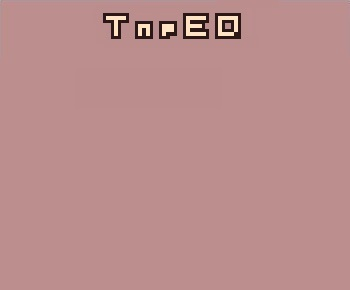
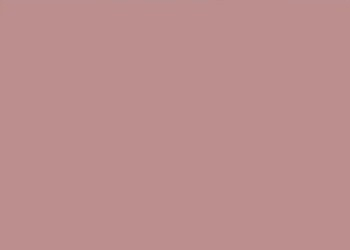
tnpLookAndFeel rotary slider now uses colour IDs

Changed region(s): [[0.2857, 0.028, 0.6857, 0.14]]

diff --git a/TnpEQ/Source/PluginEditor.cpp b/TnpEQ/Source/PluginEditor.cpp
@@ -29,7 +29,7 @@ TnpEqAudioProcessorEditor::TnpEqAudioProcessorEditor (TnpEqAudioProcessor& p)
 	attHiCutoff (std::make_unique<AudioProcessorValueTreeState::SliderAttachment>
 		(treeState, "hiCutoff", hiCutoff))
 {
-    setSize (350, 250 + 40 /*title section size*/);
+    setSize (350, 250);
 
 	backgroundImage = ImageCache::getFromMemory(BinaryData::background_jpg, BinaryData::background_jpgSize);
 
@@ -95,12 +95,10 @@ void TnpEqAudioProcessorEditor::paint (Graphics& g)
 	getLookAndFeel().setColour(Label::textColourId, Colours::black);
 	getLookAndFeel().setColour(Slider::textBoxBackgroundColourId, Colours::rosybrown);	// doesnt work?
 
-	tnpLookAndFeel.setColour(Slider::textBoxBackgroundColourId, Colours::rosybrown);
-
-	/*
-	tnpLookAndFeel.setColour(Slider::textBoxOutlineColourId, Colours::black);
-	tnpLookAndFeel.setColour(Slider::textBoxTextColourId, Colours::black);
-	*/
+	//tnpLookAndFeel.setColour(Slider::textBoxBackgroundColourId, Colours::rosybrown);
+	tnpLookAndFeel.setColour(Slider::backgroundColourId, Colours::beige);
+	tnpLookAndFeel.setColour(Slider::thumbColourId, Colours::black);
+	tnpLookAndFeel.setColour(Slider::rotarySliderOutlineColourId, Colours::black);
 
 	loBand.setColour(Slider::textBoxTextColourId, Colours::black);
 	midBand.setColour(Slider::textBoxTextColourId, Colours::black);
@@ -120,7 +118,6 @@ void TnpEqAudioProcessorEditor::paint (Graphics& g)
 void TnpEqAudioProcessorEditor::resized()
 {
 	Rectangle<int> area(getLocalBounds());
-	Rectangle<int> titleSection(area.removeFromTop(40));
 	Rectangle<int> top(area.removeFromTop(area.getHeight() / 2));
 
 	Rectangle<int> loBandArea(top.removeFromLeft(top.getWidth() / 3).reduced(5));

diff --git a/TnpEQ/Source/TnpLookAndFeel.cpp b/TnpEQ/Source/TnpLookAndFeel.cpp
@@ -23,16 +23,20 @@ void TnpLookAndFeel::drawRotarySlider(Graphics & g, int x, int y, int width,
 	float rx = centreX - radius;
 	float ry = centreY - radius;
 	float angle = rotaryStartAngle + (sliderPos * (rotaryEndAngle - rotaryStartAngle));
+	auto backgroundColor = slider.findColour(Slider::ColourIds::backgroundColourId);
+	auto outlineColor = slider.findColour(Slider::ColourIds::rotarySliderOutlineColourId);
+	auto thumbColor = slider.findColour(Slider::ColourIds::thumbColourId);
 
 	Rectangle<float> dialArea(centreX, centreY, dialWidth, dialHeight);
 
-	g.setColour(Colours::bisque);
+	g.setColour(backgroundColor);
 	g.fillEllipse(rx, ry, diameter, diameter);
 
-	g.setColour(Colours::black);
+	g.setColour(thumbColor);
 	Path dialTick;
 	dialTick.addRectangle(0, -radius, 2.0f, radius * 0.33);
 	g.fillPath(dialTick, AffineTransform::rotation(angle).translated(centreX, centreY));
 
+	g.setColour(outlineColor);
 	g.drawEllipse(rx, ry, diameter, diameter, 1.0f);
 }
